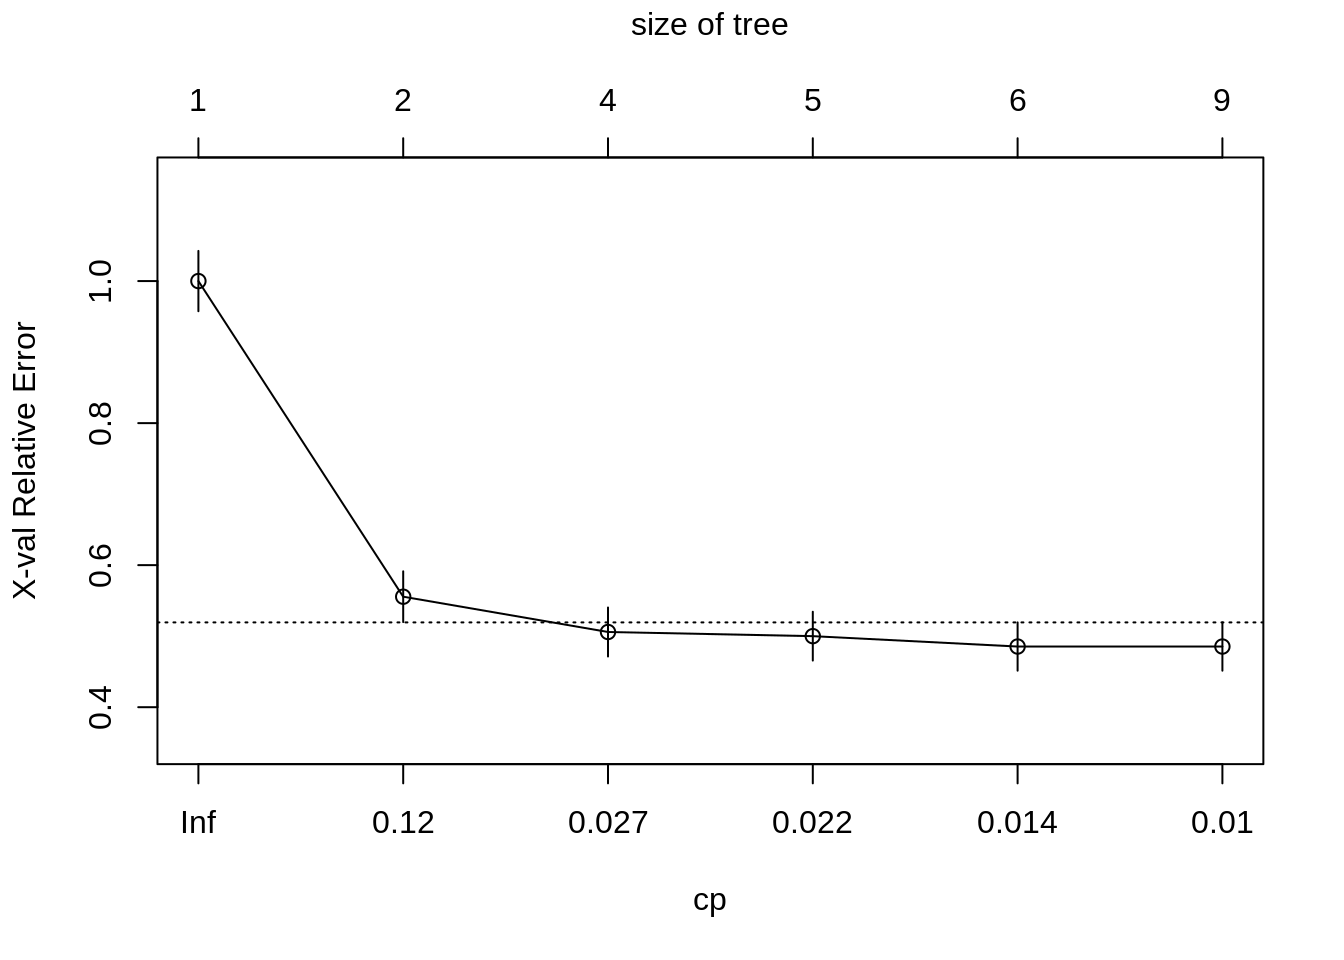
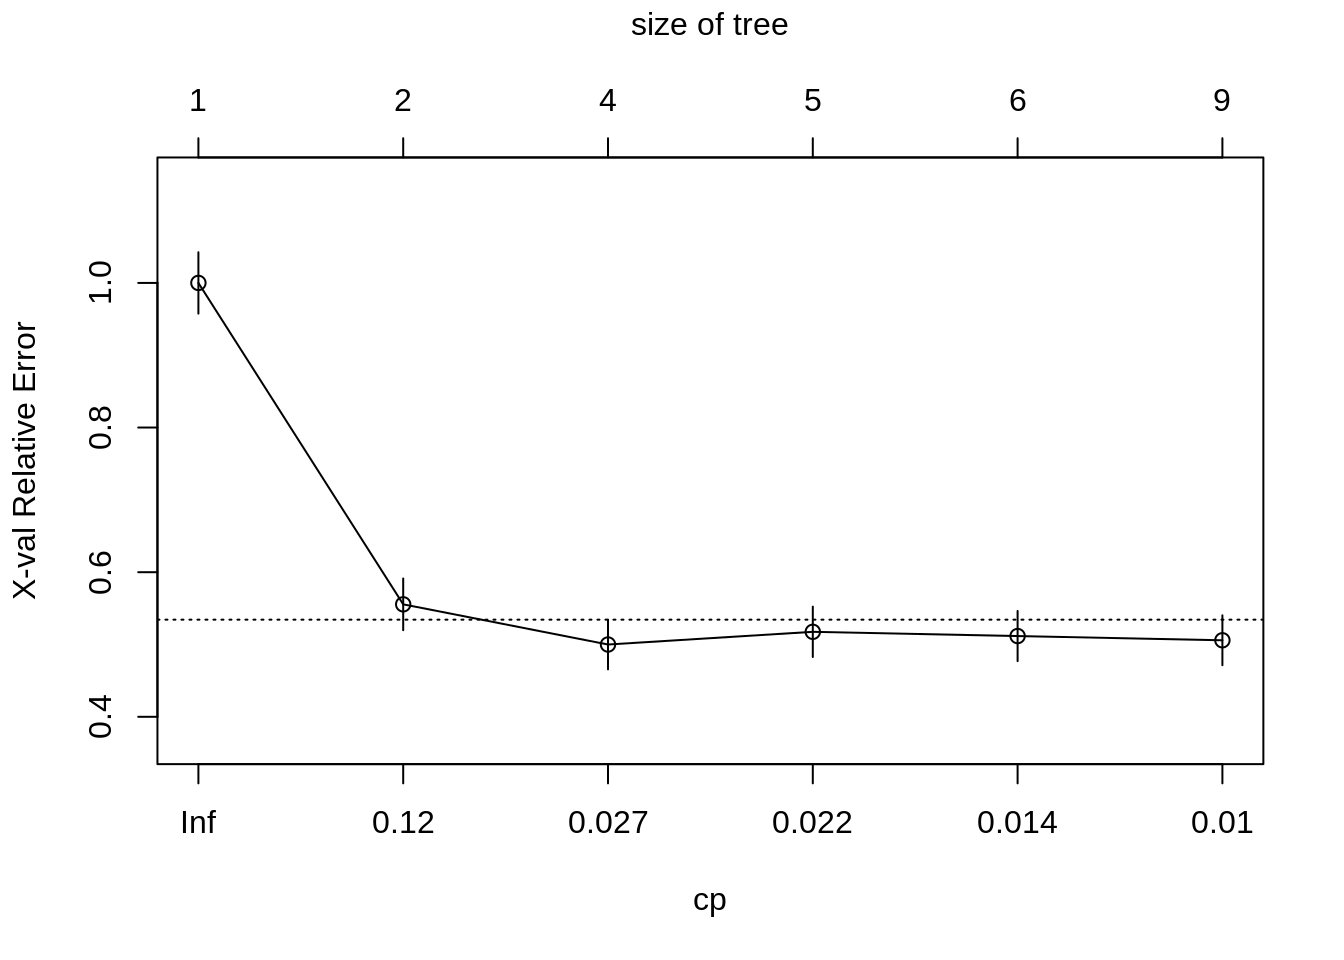
Deploy lebebr01/stat_thinking to github.com/lebebr01/stat_thinking.git:master

diff --git a/docs/classification.html b/docs/classification.html
@@ -324,10 +324,10 @@ titanic &lt;-<span class="st"> </span><span class="kw">bind_rows</span>(titanic_
 ##         CP nsplit rel error  xerror     xstd
 ## 1 0.444444      0   1.00000 1.00000 0.042446
 ## 2 0.030702      1   0.55556 0.55556 0.035750
-## 3 0.023392      3   0.49415 0.50585 0.034524
-## 4 0.020468      4   0.47076 0.50000 0.034372
-## 5 0.010234      5   0.45029 0.48538 0.033983
-## 6 0.010000      8   0.41813 0.48538 0.033983</code></pre>
+## 3 0.023392      3   0.49415 0.50000 0.034372
+## 4 0.020468      4   0.47076 0.51754 0.034823
+## 5 0.010234      5   0.45029 0.51170 0.034675
+## 6 0.010000      8   0.41813 0.50585 0.034524</code></pre>
 <div class="sourceCode"><pre class="sourceCode r"><code class="sourceCode r"><span class="kw">plotcp</span>(class_tree)</code></pre></div>
 <p><img src="05-classification_files/figure-html/unnamed-chunk-6-1.png" width="672" /></p>
 <div class="sourceCode"><pre class="sourceCode r"><code class="sourceCode r">prune_class_tree &lt;-<span class="st"> </span><span class="kw">prune</span>(class_tree, <span class="dt">cp =</span> .<span class="dv">02</span>)

diff --git a/docs/05-classification.md b/docs/05-classification.md
@@ -249,10 +249,10 @@ printcp(class_tree)
 ##         CP nsplit rel error  xerror     xstd
 ## 1 0.444444      0   1.00000 1.00000 0.042446
 ## 2 0.030702      1   0.55556 0.55556 0.035750
-## 3 0.023392      3   0.49415 0.50585 0.034524
-## 4 0.020468      4   0.47076 0.50000 0.034372
-## 5 0.010234      5   0.45029 0.48538 0.033983
-## 6 0.010000      8   0.41813 0.48538 0.033983
+## 3 0.023392      3   0.49415 0.50000 0.034372
+## 4 0.020468      4   0.47076 0.51754 0.034823
+## 5 0.010234      5   0.45029 0.51170 0.034675
+## 6 0.010000      8   0.41813 0.50585 0.034524
 ```
 
 ```r
